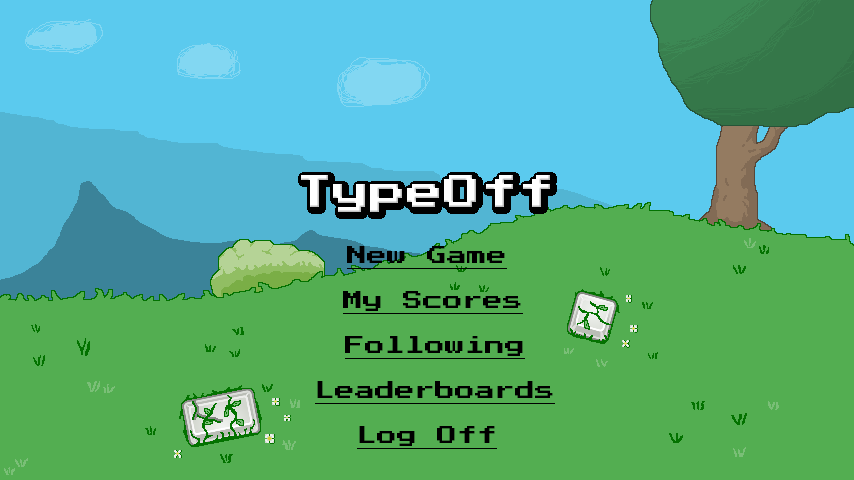
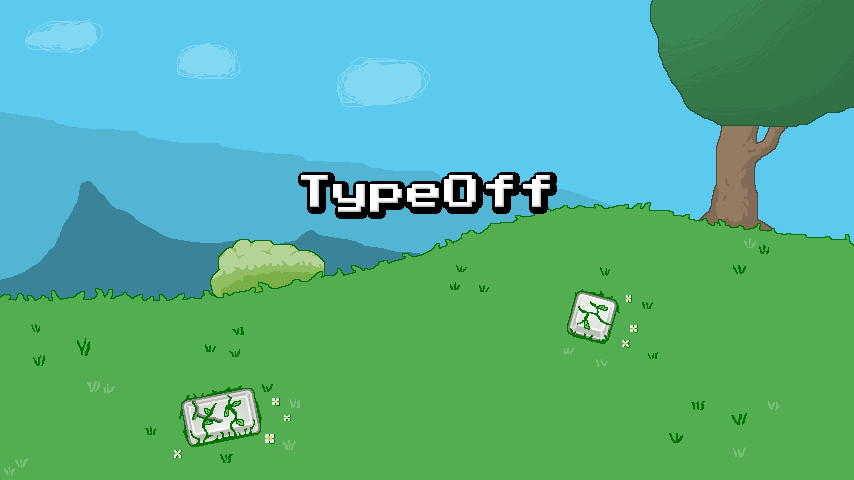
added new game button

diff --git a/js/n0_preload.js b/js/n0_preload.js
@@ -6,6 +6,24 @@ var game = new Phaser.Game(854, 480, Phaser.CANVAS, null);
 
 let titleIMG;
 let menuIMG;
+let newGameBTN;
+
+let getWordData = () => {
+    return new Promise ((resolve, reject) => {
+        var wordData = `http://api.wordnik.com:80/v4/words.json/randomWords?hasDictionaryDef=true&excludePartOfSpeech=abbreviation,proper-noun,proper-noun-plural,proper-noun-posessive,suffix,family-name,idiom,affix&minCorpusCount=5000&minDictionaryCount=2&minLength=2&maxLength=8&limit=600&api_key=a2a73e7b926c924fad7001ca3111acd55af2ffabf50eb4ae5`;
+        
+        let request = new XMLHttpRequest();
+
+        request.onload = function() {
+            if (request.status === 200) {
+                let data = JSON.parse(request.responseText);
+                resolve(data);
+            }
+        };
+        request.open("GET", wordData);
+        request.send();
+    });
+};
 
 let preloadState = {
     preload: function(){
@@ -13,7 +31,10 @@ let preloadState = {
         game.scale.pageAlignHorizontally = true;
         game.scale.pageAlignVertically = true;
         game.load.image('titleIMG', 'js/media/titleScreen.png');
+
         game.load.image('menuIMG', 'js/media/mainMenu.png');
+        game.load.image('newGameBTN', 'js/media/BTN_newGame.png');
+        
     },
 
     create: function(){
@@ -21,4 +42,4 @@ let preloadState = {
     }
 };
 
-module.exports = {game, preloadState, titleIMG, menuIMG};
+module.exports = {game, preloadState, titleIMG, menuIMG, getWordData, newGameBTN};

diff --git a/js/n2_mainMenu.js b/js/n2_mainMenu.js
@@ -4,11 +4,18 @@ let n0_preload = require("./n0_preload");
 
 let gameShort = n0_preload.game;
 let menuIMG = n0_preload.menuIMG;
+let newGameBTN = n0_preload.newGameBTN;
 
 let menuState = {
     create: function() {
         menuIMG = gameShort.add.image(gameShort.world.width*0.5, gameShort.world.height*0.5, 'menuIMG');
         menuIMG.anchor.set(0.5);
+
+        newGameBTN = gameShort.add.button(347, 246, 'newGameBTN', this.newGame, this);
+    },
+    newGame: function() {
+        // gameShort.state.start('title');
+        console.log("new game!");
     }
 };
 

diff --git a/js/n1_titleScreen.js b/js/n1_titleScreen.js
@@ -4,6 +4,7 @@ let n0_preload = require("./n0_preload");
 
 let gameShort = n0_preload.game;
 let titleIMG = n0_preload.titleIMG;
+let newGameBTN = n0_preload.newGameBTN;
 
 let titleState = {
     create: function() {
